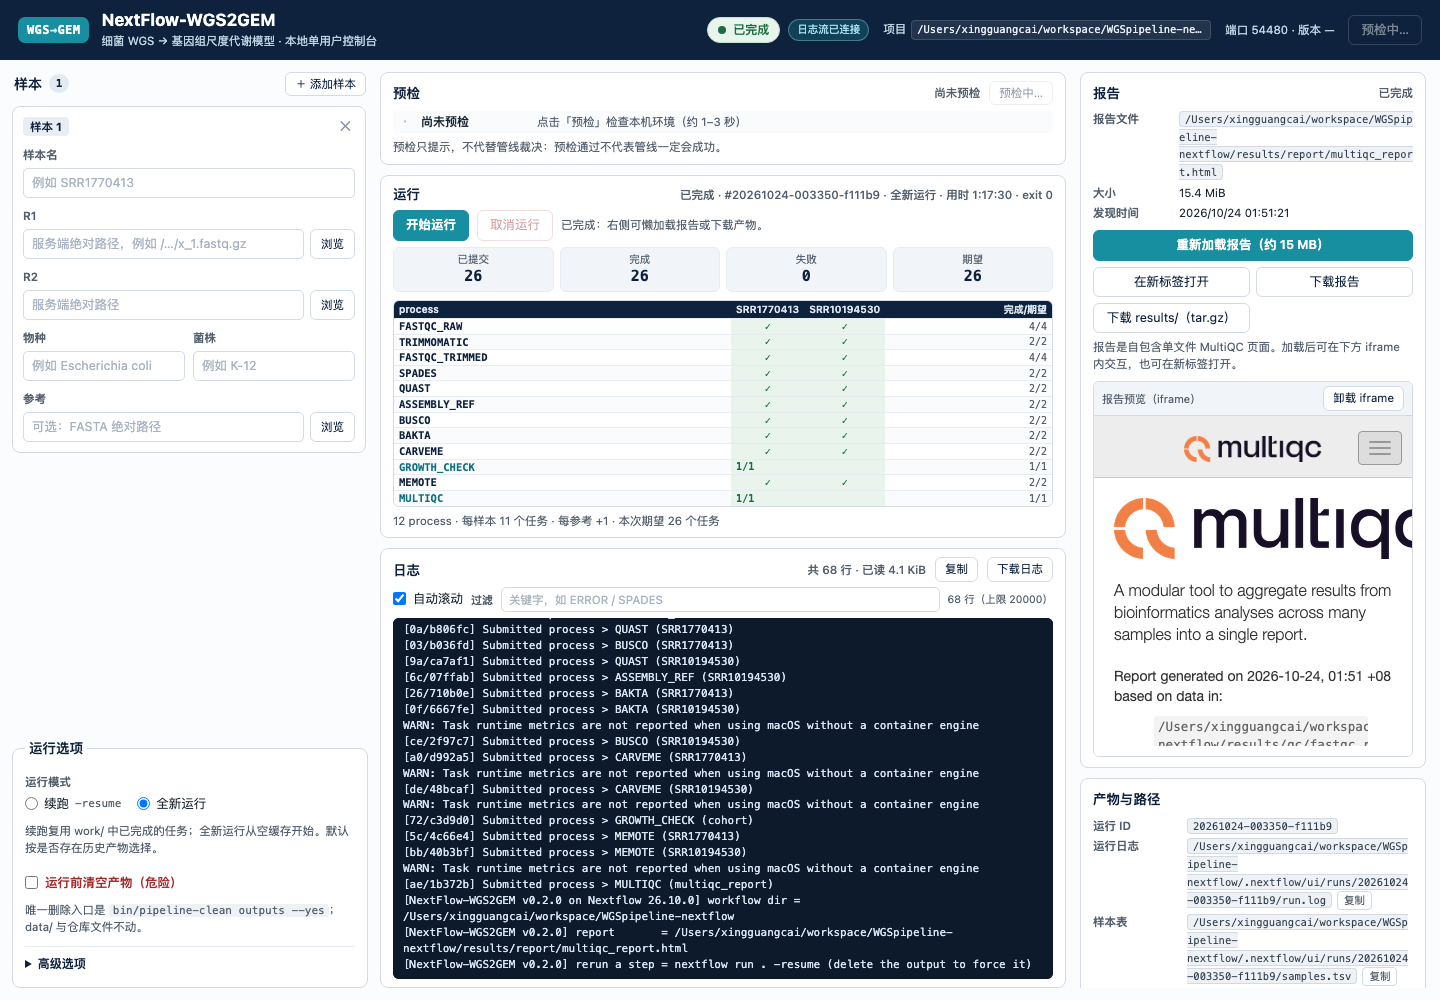
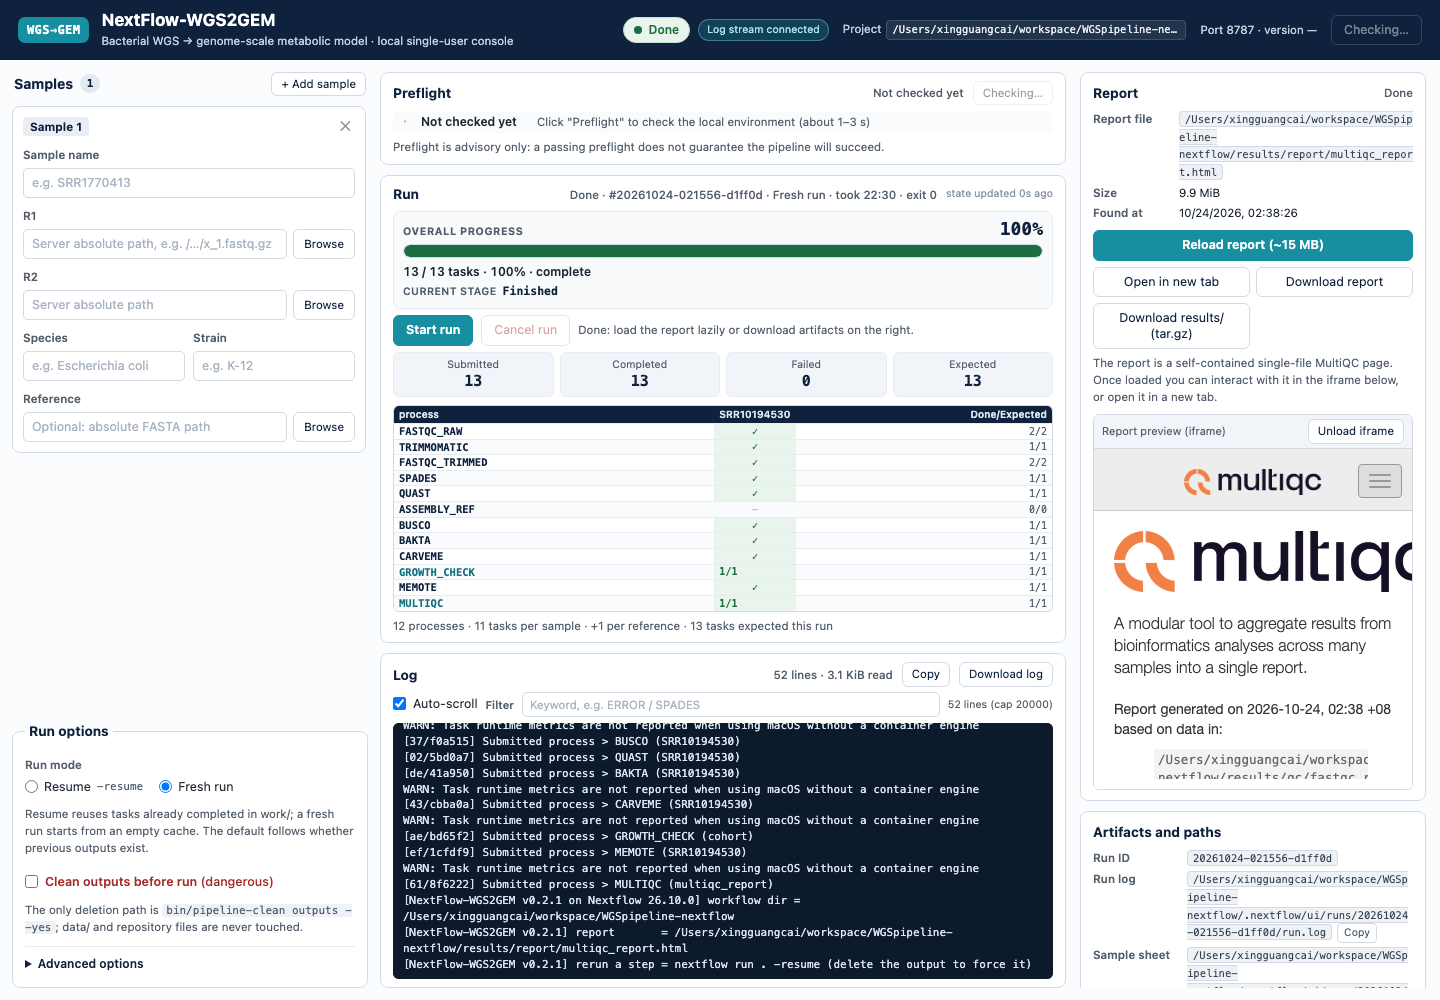
docs(release): 0.3.0 — English interface, progress bar, refresh safety net
Records the 0.3.0 release: D27 (UI language is English, by explicit user request,
DOM ids unchanged), D28 (progress presented as overall bar + stage ladder + counters,
with four independent refresh paths) and F51 (the real cause of "the Run module does
not update": SSE emitted state only when the state *name* changed, so a 38-minute run
had no progress events, and a background tab could come back stale). Updates the
living docs to 318 assertions / 39 s, adds the 0.3.0 roadmap note, and replaces the
acceptance screenshot with the English interface showing a real completed run
(13/13, exit 0, real MultiQC report in the iframe; the two-sample acceptance numbers
stay in the table above).

Version: manifest.version 0.2.1 -> 0.3.0 (single declaration point, README snippet in
the same commit). The 0.2.0/0.2.1 changelog entries are untouched.

diff --git a/docs/nextflow-port-design.md b/docs/nextflow-port-design.md
@@ -1185,6 +1185,10 @@ profiles {
   - **修法**:①分类器收紧为"basename 恰为 `nextflow`/`fake-nextflow`(含 `sh -c` 包装),或 JVM 带 `nextflow.cli.Launcher`/`nextflow.jar`/`-jar …/nextflow-<ver>-<build>.jar`,**且 argv 含 `run`**";`-version`、`config`、`rm -rf .nextflow/...`、`ui/server.py --nextflow …` 都不再匹配。②`ps -axo pid=,ppid=,command=` 取父子关系,忙扫描排除本进程的**全部后代**;`_run_cmd` 改用 Popen 并把存活 pid 登记到 `_ACTIVE_CHILDREN`,在 `ps` 不可用(只有 pgrep、没有 ppid)的受限环境同样能排除自家子进程。③`409` 文案带上被判定的 pid + 命令行前 80 字符,下一次可直接定位。④测试门禁改为 `import ui/runner.py` 调真正的 `looks_like_nextflow`,并新增 17 条断言:12 条真/假分类表 + 合成进程表(自家引擎/后代/预检 `-version` 不算,外来引擎算)。
   - **验收**:新 gate **282 ok / 0 FAIL / 0 SKIP(42 s)**;上一版 265 条不含这组断言。用户侧需要重启 UI 才能加载修复(重启后 token 改变,旧 URL 失效)。
   - **规则**:**"忙"检测必须排除自身后代,判据只能来自被测进程的真实形状**;测试门禁不能复制生产启发式,要 import 被测代码 —— 复制出来的门禁只会漂移,不会失败。
+- **F51 "任务结束后运行模块没有更新":进度是"按状态名推送"的,不是"按进度推送"的(2026-10-24,用户反馈)**:用户跑完一个任务后指出运行卡片不刷新、进度不直观。根因不是渲染,而是事件模型:SSE 的 `state` 事件只在 `(run_id, state)` 变化时发送,一次运行从 `running` 到 `done` 中间**没有任何 state 事件**——运行中的计数、阶梯、进度条因此停在第 0 帧,只能等结束那一下跳变;页面若在后台标签页里跑完(浏览器节流/连接被回收),回来看到的就是过期的 `Running`。这解释了"结束后没有更新"与"进度不直观"是同一件事的两面。
+  - **修法**:①后端 SSE 的 state 摘要加入 `tasks.submitted/completed/failed`,任一变化即推送(26 个任务 = 26 个 ~1 KB 事件,可忽略);②前端加三条独立兜底:可见时 5 s 轮询 `/api/state`(hidden 暂停)、`visibilitychange`/`focus` 立即刷新、SSE state 进终态后 600 ms 再拉一次;③45 s 无事件看门狗重连,`open` 后立即刷新;④新增总进度条(completed/expected、当前阶段、终态配色)把"整体到哪了"一屏说清,12 阶段阶梯与计数保留作明细;⑤界面按用户要求改英文(D27)。
+  - **验收**:fake 引擎成功运行,进度条 8%→…→100%(8/15/23/38/46/54/62/77/85/100),running 截图 `7 / 13 tasks · 54% · 1 running`(当前阶段 BUSCO),done `100% · Finished · took 00:09 · exit 0`,failed `38% · failed at SPADES` 红色;`kill -9` server 后同端口重启,未刷新的页面恢复 Running/connected/elapsed;测试 282 → **318 条**(英文 18 条、进度条 7 条、刷新兜底 7 条、页面 3 条),gate 318 ok / 0 FAIL / 0 SKIP(39 s)。
+  - **规则**:**"进度"必须以进度的粒度推送,而不是以状态机的粒度推送**;UI 状态不能只押一条长连接——轮询/焦点/终态/看门狗至少各有一条独立路径。另:文案语言是需求而不是实现细节,首版按当时用户选择做中文、后来改英文,说明**语言应在验收时显式确认一次**。
 **里程碑 1 验收记录（2026-10-14）：** 首次 `-stub` 运行（当时未加 stub: 块，按 F14 语义实为真实执行）10 任务 DAG 正确；渲染命令与 snakefile 逐 token 一致（fastqc `-o` 为 workdir 属预期差异）；坏样本表 4 例注入（缺列/坏名/重复名/fq 不存在）全部在任务启动前失败且报错信息逐条对齐；真实运行 10/10 成功，产物目录树、logs/、benchmarks/（Snakemake 格式 `s\th:m:s`）与源仓库一致，**8 个 Trimmomatic 产物与 Snakemake 版逐字节一致**。
 
 ## 13. 运行方式
@@ -1295,6 +1299,8 @@ lint（error 门禁 + 告警棘轮）、`-preview` 编译 + 6 个坏样本表（
 | D24 | **允许对复用资产做一处有意偏离**:`multiqc_config.yaml` 的 `software_versions` 段删掉假的 `Snakemake 9.25.2`、补上 BLAST+/COBRApy/GLPK;引擎版本改为运行时注入(`*_mqc_versions.yaml`)。理由:假版本号属于**错误陈述**而非风格;D4 的字节一致是为省同步成本,不能以保留错误为代价。资产 sha256 与背离原因已记入 `docs/asset-sources.md` | 已定(2026-10-21,用户要求,F37) |
 | D25 | **破坏性操作的默认层级必须是"什么都不删"**:`bin/pipeline-clean` 三档 `check`(默认,只印计划)/`outputs`(产物,保留 conda 环境)/`all`(连缓存);输入(`data/raw`、`data/db`、`data/reference`)与全部被跟踪文件在任何档位都不进删除表;真实删除需 `--yes` 或终端确认,非终端无 `--yes` 一律拒绝。理由:用户要的"一键"由 `outputs --yes`/`all --yes` 提供,不必靠降低默认档来换;而默认档一旦会删东西,就没有第二次机会(2026-10-22,用户要求,F41) | 已定(2026-10-22) |
 | D26 | 本地 UI 的形态:**单进程 python3 标准库 HTTP 服务 + 原生 JS 单页**(无框架/无构建/无 CDN),只绑 `127.0.0.1`、一次一个任务、不提供上传、不自己删任何东西、不复刻报告;进度与报告路径只从引擎输出读取(`Submitted|Completed process` 行、`onComplete` 的 `report =` 行),**exit 0 但没有报告判 failed**;取消打整个进程组(SIGTERM→10 s→SIGKILL)并保留 `work/`,重启后 attach 的运行同样可取消;鉴权=一次性 token + Origin 校验。理由:用户已定"本地单用户 Web UI"且要求零依赖、与现有 CI 工具无关;Electron 多一套打包链,FastAPI+React 引入 pip/npm,均与"同事拿到就能跑、CI 只认 bash+python3"冲突。代价:手写 CSS/JS、无组件库(2026-10-23,roadmap C) | 已定(2026-10-23) |
+| D27 | 本地 UI 的**语言 = 英文**(界面 + API 用户可见文案);DOM id / `data-*` 不变,断言平移。理由:用户 2026-10-24 明确要求英文(首版按用户当时的选择做了中文,现在改);README 与报告本就是英文,对外演示/同事使用一致。代价:后端约 140 处文案重写,且中文用户需习惯英文界面(未做双语切换,如将来要,需 API 携带 lang 参数) | 已定(2026-10-24,用户要求) |
+| D28 | 进度呈现 = **总进度条 + 12 阶段阶梯 + 四个计数**三者并存:进度条给整体百分比(completed/expected,clamp 0–100,终态强制 100/标红失败阶段)与当前阶段,阶梯给每一步的样本×process 明细,计数给绝对值。刷新不依赖单通道:SSE state 事件带进度摘要(任务数变化即推送)、可见时 5 s 轮询、focus/visibility 立即刷新、终态 600 ms 二次拉取、45 s 看门狗重连。理由:用户反馈"进度不直观"与"任务结束后运行模块不更新";前者是表达问题,后者是 SSE 只在状态名变化时推送导致的冻结(F51) | 已定(2026-10-24,用户反馈) |
 
 ## 17. 里程碑与后续开放问题
 
@@ -1308,7 +1314,7 @@ lint（error 门禁 + 告警棘轮）、`-preview` 编译 + 6 个坏样本表（
 | 5 | 全量对拍（阶段 B/C）+ 回写文档 + readme 补充 Nextflow 运行说明 | 对拍表全部通过 |
 | 6 | 防御性加固：磁盘硬预检（F22/D13）+ 每次 push 的 CI 回归守卫（阶段 D/D14）+ 单样本失败注入实测（F23/D12） | ✅ **完成（2026-10-14）**：预检三分支实测（满足/不满足/关闭）且不满足时在任何任务前中止；CI 3 个 job 全绿（lint 0 error + 告警棘轮、`-preview` + 6 坏样本表、F22 三分支、23 任务 stub 干跑 + 产物契约 + 根产物零改写、F23 注入失败 + `-resume` 收敛 + `ignore` 负对照）；单样本失败从"未验证限制"变为"实测语义"，并更正了 `finish` ≠ `--keep-going` 的旧表述。**（更正 2026-10-15：本行原称"CI 3 个 job 全绿"，但该仓库当时从未跑过 workflow——那是本地脚本的结论，而本地绿 ≠ CI 绿；首次真实 CI 运行 3/4 job 红，根因与对策见 F28/D18。CI 现为 4 个 job。）** |
 
-| 7 | 本地一键 UI(roadmap C):契约 + 假引擎 → 后端/前端/测试 → 真实 2 样本验收 | ✅ **完成(2026-10-24)**:282 条断言 0 FAIL/0 SKIP(42 s,CI job `local-ui`);真实 stub 全 DAG 25 任务;注入失败定位 `FASTQC_RAW/CI_B_1/exit 1`;真实 2 样本经 UI 从清空跑到报告:**26/26、exit 0、77.5 min**、报告逐字节转发并在 iframe 渲染、350 MiB 下载 69/69 一致、全部数字与 0.1.0 基线相同;真实运行中的取消与 kill -9 后 attach 均实测。⏳ **≤45 min 未达成**(主机 8 GiB RAM/loadavg 峰值 24.1,非 UI/管线开销),作为待复测项保留(F49;复测方法见 `docs/ui.md` §14) |
+| 7 | 本地一键 UI(roadmap C):契约 + 假引擎 → 后端/前端/测试 → 真实 2 样本验收 | ✅ **完成(2026-10-24,0.3.0 更新)**:318 条断言 0 FAIL/0 SKIP(39 s,CI job `local-ui`;含英文界面、总进度条、刷新兜底);真实 stub 全 DAG 25 任务;注入失败定位 `FASTQC_RAW/CI_B_1/exit 1`;真实 2 样本经 UI 从清空跑到报告:**26/26、exit 0、77.5 min**、报告逐字节转发并在 iframe 渲染、350 MiB 下载 69/69 一致、全部数字与 0.1.0 基线相同;真实运行中的取消与 kill -9 后 attach 均实测。⏳ **≤45 min 未达成**(主机 8 GiB RAM/loadavg 峰值 24.1,非 UI/管线开销),作为待复测项保留(F49;复测方法见 `docs/ui.md` §14) |
 
 **开放问题：**
 1. 复用资产副本的同步机制：手动同步（记录来源 commit）还是 git submodule？（实施时定）

diff --git a/docs/ui.md b/docs/ui.md
@@ -1,6 +1,6 @@
 # 本地 Web UI（roadmap C）— 设计与契约
 
-状态:**已实现并完成验收**;真实 2 样本全流程在 2026-10-24 跑通(26/26、报告/下载逐字节一致),≤45 min 计时项因主机条件未达成、保留为待复测项(见 §14)。本文件是前后端并行开发的**唯一契约**;
+状态:**已实现并完成验收**(0.3.0:英文界面 + 总进度条 + 状态刷新兜底);真实 2 样本全流程在 2026-10-24 跑通(26/26、报告/下载逐字节一致),≤45 min 计时项因主机条件未达成、保留为待复测项(见 §14)。本文件是前后端并行开发的**唯一契约**;
 实现者先读完本文件再写代码,契约有变更必须先改本文件并在任务板上通知另一端。
 
 定位:**本地单用户 Web UI**,不是公网服务。浏览器打开 `http://127.0.0.1:<port>`,
@@ -411,7 +411,19 @@ data: {"from": 1234, "text": "…原样文本块…"}
 
 ## 11. 前端规格(`ui/index.html` / `app.js` / `style.css`)
 
-单页、中文、离线(禁止任何 `http(s)://` 外链:CSS/JS/字体/图片全部内联或本地)。
+单页、**英文**(2026-10-24 用户要求,0.3.0;API 的用户可见文案同样是英文)、离线
+(禁止任何 `http(s)://` 外链:CSS/JS/字体/图片全部内联或本地)。DOM id / `data-*` 在 0.3.0 保持不变,
+所以既有断言可平移。
+
+**总进度条(0.3.0)**:运行卡片上部 `#overall-progress`(`role="progressbar"`,aria-valuemin/max/now),
+百分比 = completed / expected(clamp 0–100;done 强制 100),caption 形如 `17 / 26 tasks · 65% · 2 running`;
+配 `CURRENT STAGE` 行、终态配色(done 绿 / failed 红 / cancelled 灰)与 `state updated Ns ago` 小字。
+原 12 阶段阶梯与四个计数保留,两者不互相替代。
+
+**刷新兜底(0.3.0,F51)**:主通道仍是 SSE,但 `state` 事件现在在**进度摘要**
+(submitted/completed/failed)变化时也会推送;页面可见时每 5 s 轮询 `/api/state`,hidden 暂停,
+`visibilitychange`/`focus` 立即刷新;SSE state 进入终态后 600 ms 再拉一次;45 s 没有事件则看门狗重连。
+"任务结束后运行模块不更新、后台标签页回来还是旧状态"由此不再依赖单条长连接。
 不使用框架与构建步骤;`app.js` 必须能被 `node --check` 解析。
 
 布局(桌面优先,≥1280px 三栏;窄屏纵向堆叠):
@@ -476,7 +488,7 @@ data: {"from": 1234, "text": "…原样文本块…"}
 
 断言清单(至少):
 
-1. 启动 `--print-url` 输出 `UI_READY`,URL 可访问;`GET /` 200、含中文标题;
+1. 启动 `--print-url` 输出 `UI_READY`,URL 可访问;`GET /` 200、英文页面(`<html lang="en">`、英文 title);
 2. `GET /` 无 token 且无 cookie → 403;带 `?token=` → 200 + `Set-Cookie`;
 3. `index.html`/`app.js`/`style.css` 中无 `http://`/`https://` 外链;`node --check ui/app.js` 通过;
 4. `GET /api/preflight` 返回 checks;nextflow 缺失(`--nextflow /nonexistent`)→ fail 且不崩;
@@ -499,6 +511,10 @@ data: {"from": 1234, "text": "…原样文本块…"}
 16. 鉴权:无 token POST → 403;`Origin: http://evil.example` → 403;
 17. `--project` 指向副本时,仓库真实 `results/` 树 mtime 不变(F18);
 18. 全部 HTTP 响应 `Cache-Control: no-store`(API)。
+19. **0.3.0 新增**:`ui/*.html|js|css` 与 `ui/*.py` 的 CJK 字符数为 0;后端 403/400/preflight/failed 等
+    用户可见文案全英文;页面含 `#overall-progress`/`role="progressbar"`/`aria-valuemin|max|now`,
+    `app.js` 含百分比 clamp 与 `tasks.completed/expected` 渲染;`app.js` 含 `visibilitychange`、window
+    `focus`、5 s `pollState` 轮询、45 s SSE watchdog、终态 600 ms 二次 `refreshState`。
 
 真实集成(CI 有 nextflow 时):用 `--nextflow-arg=-c --nextflow-arg=tests/ci/ci.config
 --nextflow-arg=-stub-run` 跑完整 DAG(约 8 s),断言 done、报告非空、任务计数 25;
@@ -529,11 +545,11 @@ data: {"from": 1234, "text": "…原样文本块…"}
 | 基线对拍 | 全部一致:组装 4,835,534 / 370 / 159,317 / 50.33 与 5,404,919 / 390 / 244,803 / 50.34;BUSCO 440/440;C:100.0%[S:99.5%,D:0.5%];MEMOTE 68.1 / 67.8;生长 0.953 / 0.529、66.000 / 66.001 / 0.000 / 0.228;Bakta 4,891 / 5,496;genome fraction / identity 99.38 / 99.926 与 97.37 / 99.721 |
 | 失败呈现 | 真实 stub DAG 注入 FASTQC 失败 → `failed`,`FASTQC_RAW / CI_B_1 / exit 1`,stderr 尾解析正确;无报告 → `failed(report_missing)` |
 | 取消 / attach | 真实运行取消 <1 s、进程组消失、`work/`+`results/` 保留;`kill -9` UI 后 attach 到同 run/pid、完成数从日志恢复、仍可取消(真实 Nextflow 与假引擎两条路径) |
-| 自动化守卫 | `tests/ci/run-ui-check.sh`:**282 ok / 0 FAIL / 0 SKIP**,42 s(含真实 stub DAG 25 任务、注入失败与 F50 忙检测单测) |
+| 自动化守卫 | `tests/ci/run-ui-check.sh`:**318 ok / 0 FAIL / 0 SKIP**,39 s(含真实 stub DAG 25 任务、注入失败、F50 忙检测单测,以及 0.3.0 的英文/进度条/刷新兜底断言) |
 | F18 | 仓库 `results/`、`data/`、tracked `samples.tsv` 在测试中零改动 |
 
 
-![2026-10-24 真实 2 样本验收:26/26、exit 0、12 步全绿、右侧为真实 15.4 MiB MultiQC 报告(iframe)](ui-acceptance.png)
+![2026-10-24 英文界面(0.3.0)下的真实运行:1 样本 13/13、exit 0、进度条 100%、当前阶段 Finished,右侧为真实 MultiQC 报告(iframe)](ui-acceptance.png)
 
 ### 14.3 45 分钟口径:未达成,原因已分清
 

diff --git a/CHANGELOG.md b/CHANGELOG.md
@@ -7,6 +7,49 @@ and this project adheres to [Semantic Versioning](https://semver.org/spec/v2.0.0
 
 ## [Unreleased]
 
+## [0.3.0] - 2026-10-24
+
+### Added
+
+- **An English interface and an overall progress bar (user feedback).** The console was Chinese-only and
+  its progress was implicit: four counters plus a 12-process ladder, no single "where is the run".
+  Everything user-visible is now English — page chrome, labels, hints, dialogs, and the API's
+  validation/preflight/failure messages (the existing DOM ids and JSON keys are unchanged, so the
+  contract and the test suite carried over). Above the ladder there is now an overall progress bar
+  (`#overall-progress`, ARIA progressbar) with `completed / expected` percentage, a caption such as
+  `17 / 26 tasks · 65% · 2 running`, the current stage, terminal-state colouring (done green, failed
+  red with the failing stage, cancelled grey) and a `state updated Ns ago` marker; the ladder and the
+  four counters stay as the per-step/per-sample detail.
+
+### Changed
+
+- **SSE `state` events now carry a progress digest.** The server used to emit state only when the run
+  id or the state *name* changed, so during a 38-minute run the page's counters, ladder and progress
+  sat on the first frame and only jumped when the run finished; a background tab could also come back
+  showing a stale `Running`. The event is now re-sent whenever `submitted/completed/failed` moves (26
+  tasks = 26 small events per run).
+- **The run panel no longer depends on one long-lived connection.** While the tab is visible the page
+  polls `GET /api/state` every 5 s (paused when hidden), refreshes immediately on `visibilitychange`
+  and `focus`, re-fetches 600 ms after a terminal SSE state (so the report/exit code are complete), and
+  a 45 s SSE watchdog closes and reconnects when nothing has arrived.
+
+### Fixed
+
+- **"The Run module does not update after the task ends."** Root cause was the event model above, not
+  rendering: progress was pushed at state-machine granularity (F51). The fixes above make the bar move
+  per task and make the page converge after sleep/reconnect; verified with the fake engine
+  (8%→…→100%, `54%` while running, `100% · Finished`, `38% · failed at SPADES`) and with a kill -9 /
+  restart of the UI server while a run was in flight (the un-refreshed page recovered to `Running`,
+  `Log stream connected`, elapsed 00:33).
+- **`bin/pipeline-ui` printed three Chinese errors** (missing server file / wrong directory / missing
+  python3); it is English now, like the rest of the interface.
+
+### Verification
+
+`tests/ci/run-ui-check.sh`: **318 ok / 0 FAIL / 0 SKIP in 39 s** (was 282), including 36 new assertions
+for English-only pages and Python messages, the progress-bar element/aria/clamp, and the four refresh
+fallbacks; the real `-stub-run` DAG and the injected-FASTQC failure leg still pass.
+
 ## [0.2.1] - 2026-10-24
 
 ### Fixed

diff --git a/README.md b/README.md
@@ -155,7 +155,12 @@ needs. Everything else is the pipeline you already have: the UI writes a sample 
 The flow is this README's flow with the file picker replaced by the local filesystem: choose
 R1/R2 in the built-in browser (**reads are never uploaded** — the page lists paths server-side),
 pick *resume* or *fresh*, press start, watch the 12-process ladder and the engine log stream in,
-then load the report. `bin/pipeline-clean` remains the only thing that deletes: ticking "clear
+then load the report. The interface is **English**, and the run panel is built to stay honest
+while it is open: an overall progress bar (completed / expected tasks, current stage, terminal
+state colour) is driven by SSE events that now carry a progress digest, backed by a 5 s poll while
+the tab is visible, a refresh on focus, a re-fetch after the run turns terminal, and a 45 s SSE
+watchdog — so a background tab that missed the end of a 38-minute run cannot come back showing
+"Running". `bin/pipeline-clean` remains the only thing that deletes: ticking "clear
 outputs" shows its `check` plan first and runs `outputs --yes` only after confirmation, so the
 UI never becomes a second cleanup implementation.
 
@@ -469,7 +474,7 @@ version is declared once, in the `manifest` block of `nextflow.config`:
 ```groovy
 manifest {
     name            = 'NextFlow-WGS2GEM'
-    version         = '0.2.1'
+    version         = '0.3.0'
     nextflowVersion = '>=25.10.0'
 }
 ```

diff --git a/tests/ci/README.md b/tests/ci/README.md
@@ -55,7 +55,11 @@ assertion. They are independent and can be run in any order.
   0.3 s, `run-clean-check.sh` 0.4 s, `run-lint.sh` 2 s, `run-stub-smoke.sh` 8 s,
   `run-growth-check.sh` 12 s, `run-disk-guard.sh` 16 s, `run-failure-isolation.sh` 27 s,
   `run-preview.sh` 33 s.
-- `run-ui-check.sh` is the newest member: 282 assertions, 42 s. It deliberately owns **no output tree**: every
+- `run-ui-check.sh` is the newest member: 318 assertions, 39 s. Its 0.3.0 additions pin the English
+  interface (CJK count 0 in html/js/css and in ui/*.py, English API messages), the overall progress
+  bar (element, aria range, percentage clamp) and the state-refresh fallbacks (5 s poll,
+  visibilitychange/focus, 45 s SSE watchdog, terminal re-fetch) so the run panel cannot depend on a
+  single long-lived connection alone. It deliberately owns **no output tree**: every
   scenario builds a `mktemp -d` project, and the real stub leg copies the pipeline into one, so a UI regression
   cannot publish over validated data (F18). The `SKIP` it prints when `nextflow` is absent is a skip, not a pass —
   the new `local-ui` CI job installs Nextflow so the stub leg always runs there.
